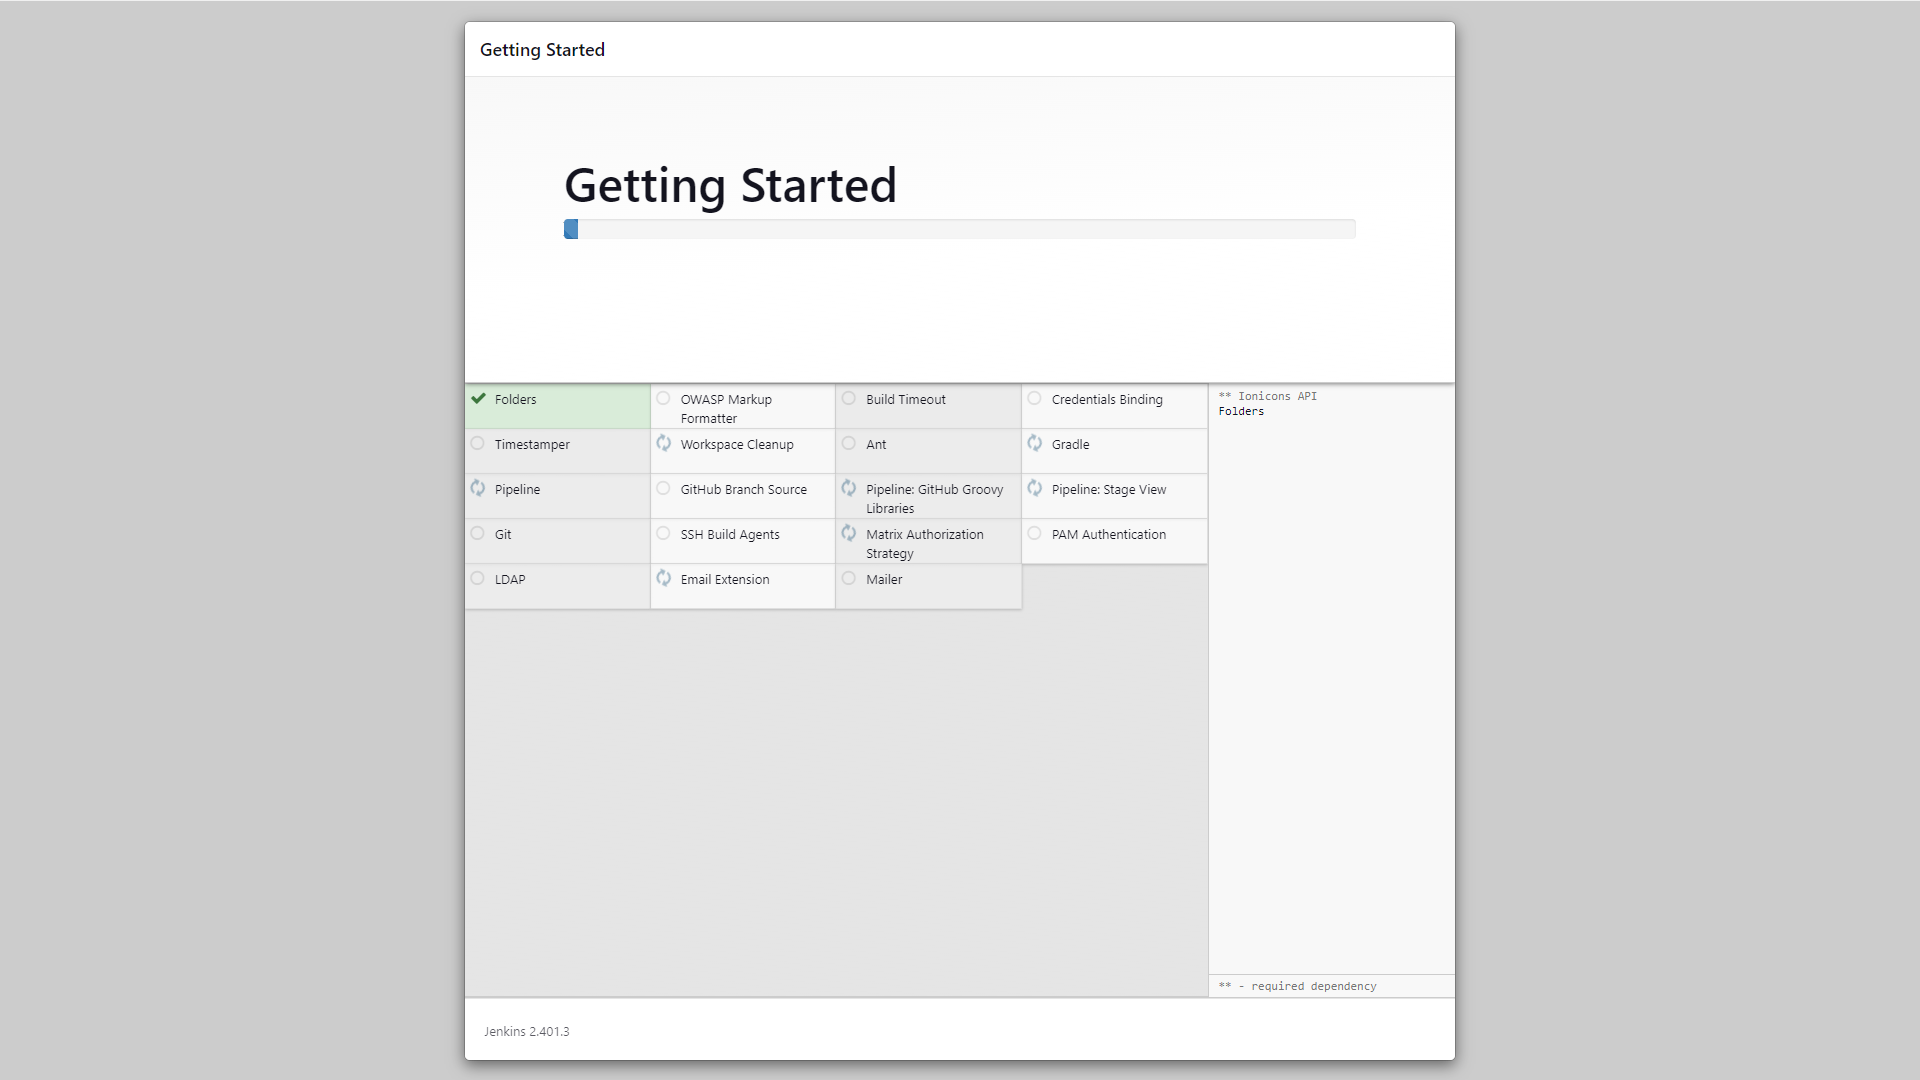
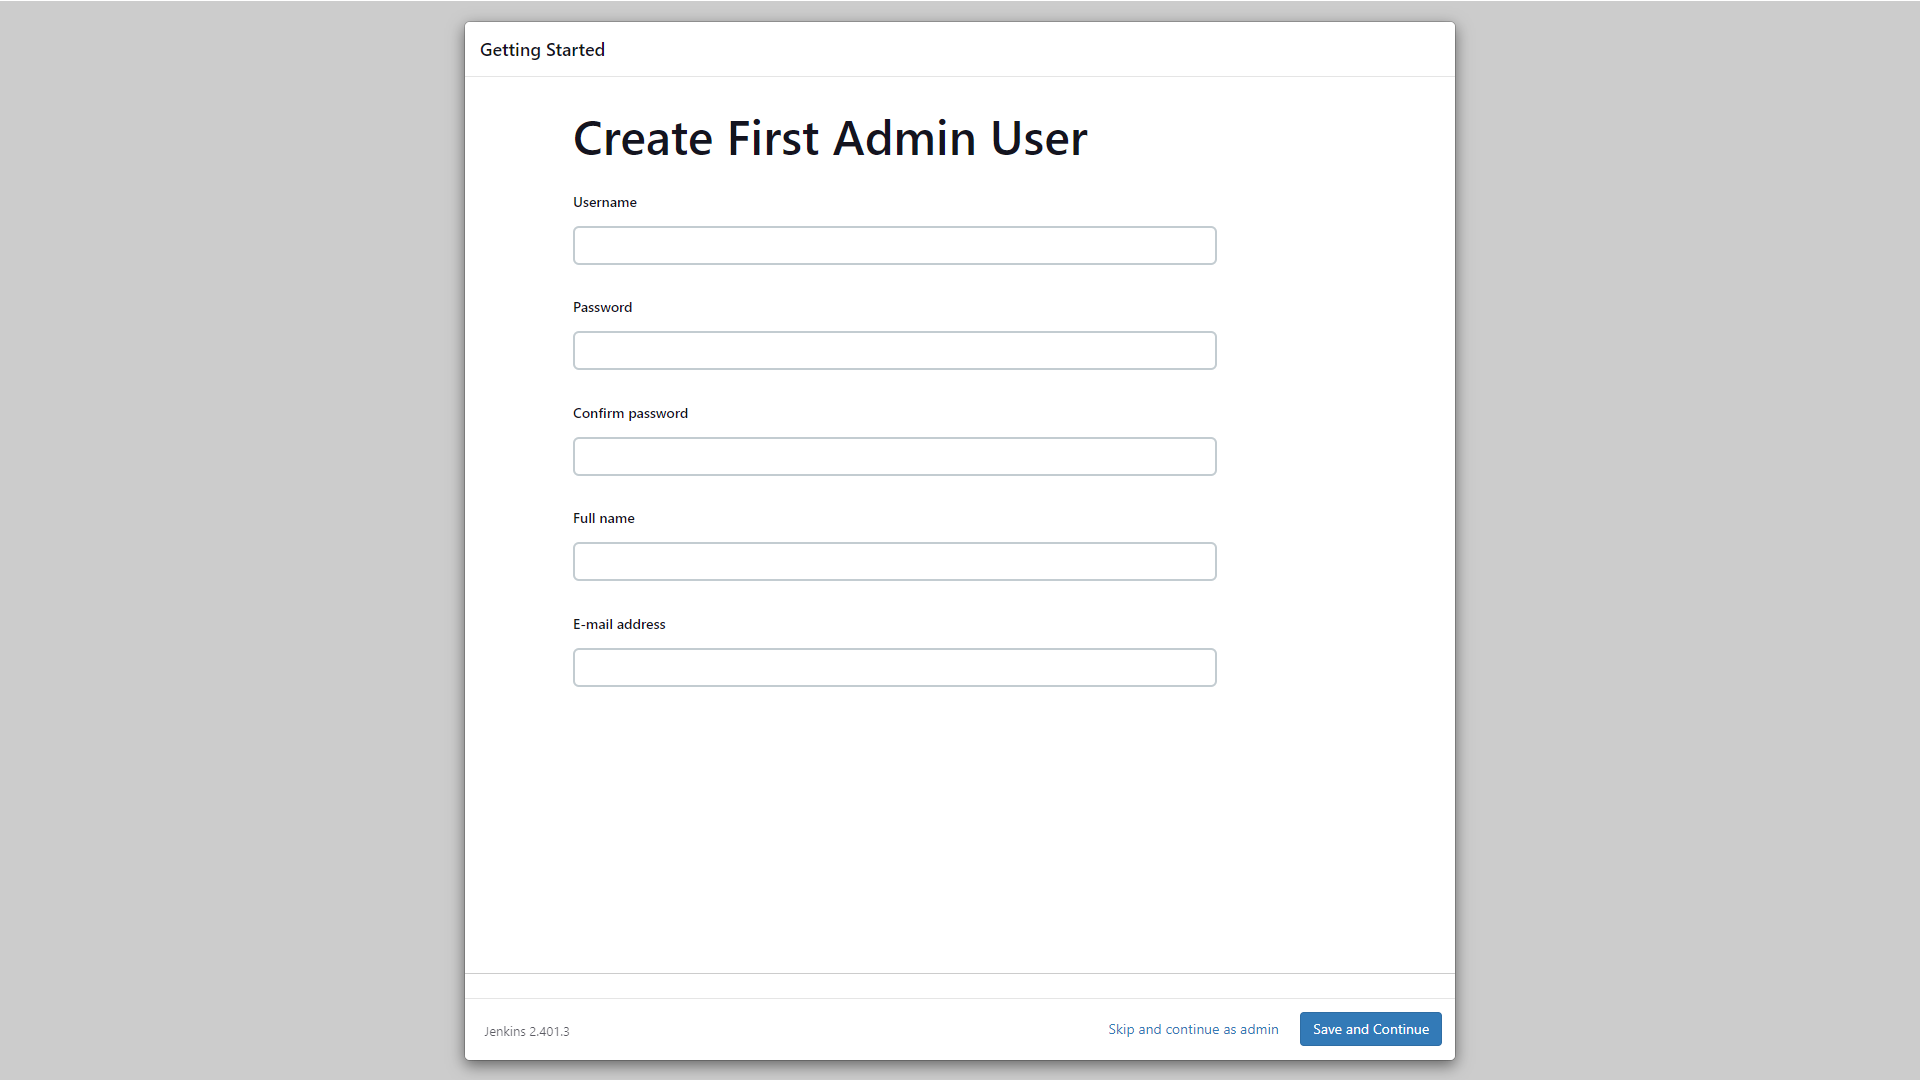
Add tutorial steps to jenkins setup

Changed region(s): [[0.2188, 0.3361, 0.75, 0.9778], [0.2812, 0.0917, 0.5625, 0.2139]]

diff --git a/Install/ubility-install/static/steps.ts b/Install/ubility-install/static/steps.ts
@@ -14,6 +14,10 @@ import jenkins_setup_step1 from "../assets/images/tutorials/jenkins_setup/step1.
 import jenkins_setup_step2 from "../assets/images/tutorials/jenkins_setup/step2.png";
 import jenkins_setup_step3 from "../assets/images/tutorials/jenkins_setup/step3.png";
 import jenkins_setup_step4 from "../assets/images/tutorials/jenkins_setup/step4.png";
+import jenkins_setup_step5 from "../assets/images/tutorials/jenkins_setup/step5.png";
+import jenkins_setup_step6 from "../assets/images/tutorials/jenkins_setup/step6.png";
+import jenkins_setup_step7 from "../assets/images/tutorials/jenkins_setup/step7.png";
+import jenkins_setup_step8 from "../assets/images/tutorials/jenkins_setup/step8.png";
 
 export type Input = {
   id: string;
@@ -86,8 +90,22 @@ const steps: Step[] = [
         },
         {
           nb: 2,
-          title: "Install Jenkins Plugins",
-          instructions: ["Click 'Install suggested plugins'"],
+          title: "Create Jenkins User",
+          instructions: [
+            "Fill with credentails to create a new jenkins user",
+            "Enter the same username used here in the username input above",
+          ],
+          image_visible: true,
+          image: jenkins_setup_step3,
+          link: {
+            title: "http://<VM_ADDRESS>:8080",
+            url: "http://<VM_ADDRESS>:8080",
+          },
+        },
+        {
+          nb: 3,
+          title: "Instance Configuration",
+          instructions: ["Click 'Save and Finish'"],
           image_visible: true,
           image: jenkins_setup_step4,
           link: {
@@ -96,14 +114,56 @@ const steps: Step[] = [
           },
         },
         {
-          nb: 3,
-          title: "Install Jenkins Plugins",
-          instructions: ["Click 'Install suggested plugins'"],
+          nb: 4,
+          title: "Jenkins is ready",
+          instructions: ["Click 'Start using Jenkins'"],
           image_visible: true,
-          image: jenkins_setup_step4,
+          image: jenkins_setup_step5,
           link: {
-            title: "http://<VM_ADDRESS>:8080/user/ibrahimnasri24/configure",
-            url: "http://<VM_ADDRESS>:8080/user/ibrahimnasri24/configure",
+            title: "http://<VM_ADDRESS>:8080",
+            url: "http://<VM_ADDRESS>:8080",
+          },
+        },
+        {
+          nb: 5,
+          title: "Open configuration page",
+          instructions: [
+            "Click on your username in the up-right corner",
+            "Click on configure",
+          ],
+          image_visible: true,
+          image: jenkins_setup_step6,
+          link: {
+            title: "http://<VM_ADDRESS>:8080",
+            url: "http://<VM_ADDRESS>:8080",
+          },
+        },
+        {
+          nb: 6,
+          title: "Name the API token",
+          instructions: [
+            "In the API Token section, enter a clear name for Jenkins' api token",
+          ],
+          image_visible: true,
+          image: jenkins_setup_step7,
+          link: {
+            title: "http://<VM_ADDRESS>:8080",
+            url: "http://<VM_ADDRESS>:8080",
+          },
+        },
+        {
+          nb: 7,
+          title: "Generate Jenkins' API Token",
+          instructions: [
+            "Click 'Generate'",
+            "Select and copy the token",
+            "Paste the token in the API token field at the top of this page",
+          ],
+          image_visible: true,
+          image: jenkins_setup_step8,
+          link: {
+            title: "http://<VM_ADDRESS>:8080",
+            url: "http://<VM_ADDRESS>:8080",
           },
         },
       ],
